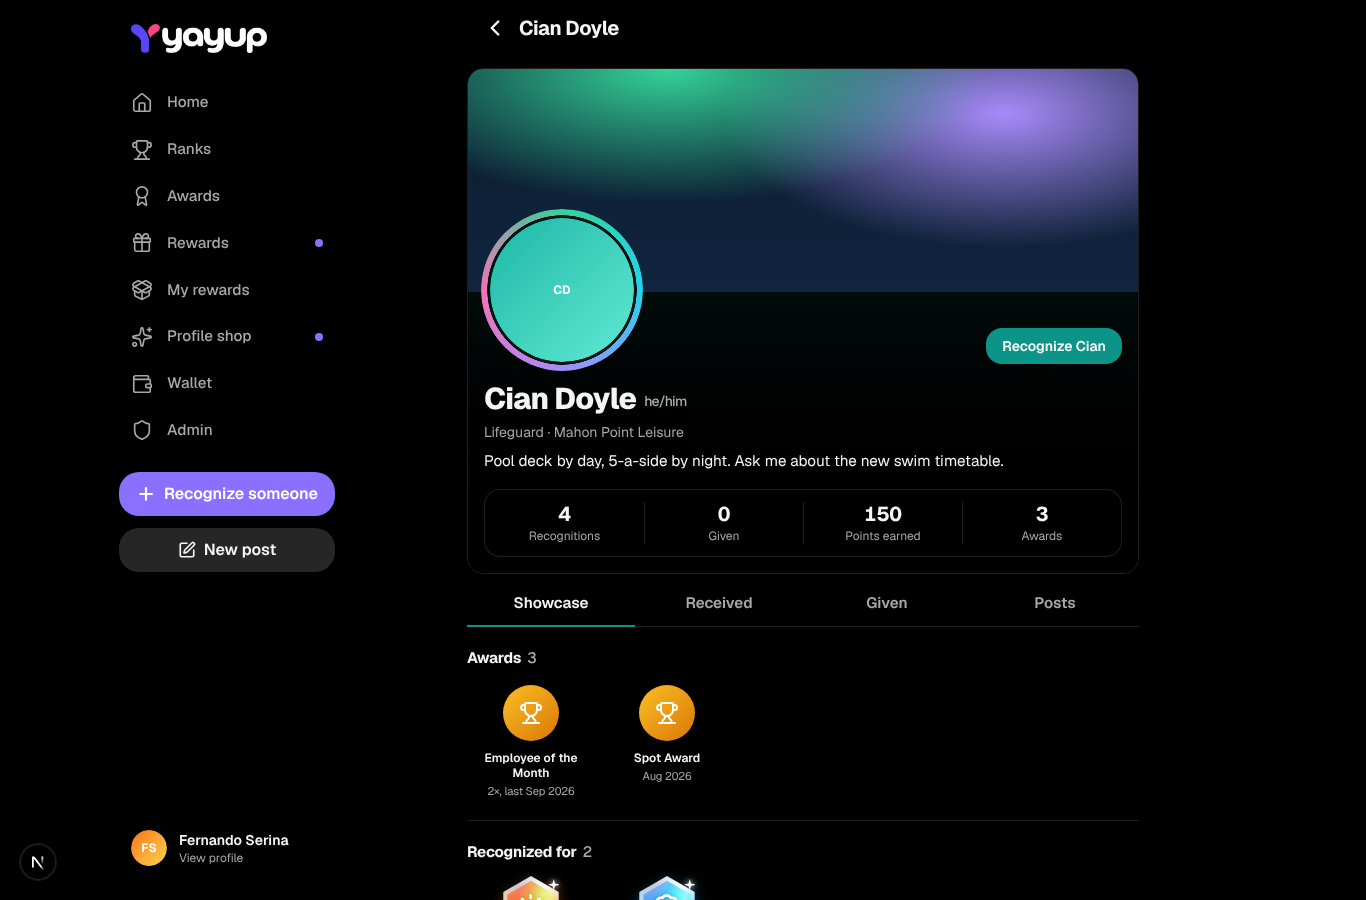
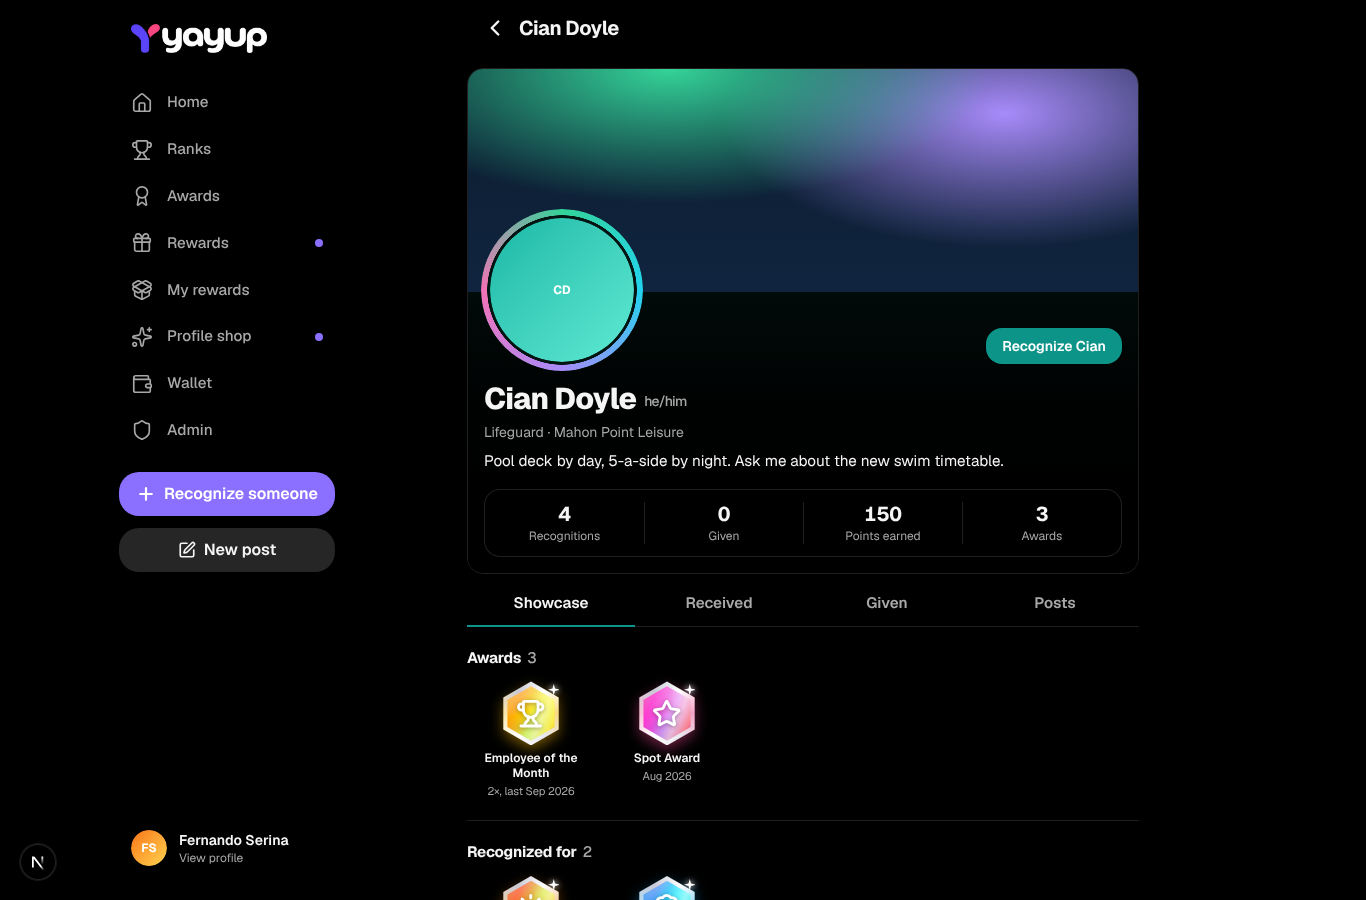
Show awards as #48's gold hexagons on the profile showcase
Group awards by program, draw them with AwardBadge, and drop the
profile Highlights and Stats the showcase replaced.

Claude-Session: https://claude.ai/code/session_015uHrJRgyyZCSvNwWYqk8Gw

Changed region(s): [[0.3382, 0.7467, 0.4305, 0.84], [0.4612, 0.7467, 0.5227, 0.84]]

diff --git a/components/profile/profile-parts.tsx b/components/profile/profile-parts.tsx
@@ -1,126 +1,5 @@
 import Link from "next/link";
-import { cn } from "@/lib/utils";
-import { AwardBadge, ValueSeal } from "@/components/value-seal";
-import { CELEBRATION_EMOJI, CELEBRATION_LABELS, type ProfileData } from "@/lib/profile";
-import { CountUp } from "@/components/fx/count-up";
-
-/** Instagram's three counts beside the avatar, easing up as the page opens. */
-export function Stats({ data }: { data: ProfileData }) {
-  const items = [
-    { label: "received", value: data.stats.receivedCount },
-    { label: "given", value: data.stats.givenCount },
-    { label: "points", value: data.stats.pointsEarned },
-  ];
-  return (
-    <dl className="grid flex-1 grid-cols-3 text-center">
-      {items.map((s) => (
-        <div key={s.label} className="flex flex-col-reverse">
-          <dt className="text-sm">{s.label}</dt>
-          <dd data-numeric className="text-lg leading-tight font-bold">
-            <CountUp value={s.value} />
-          </dd>
-        </div>
-      ))}
-    </dl>
-  );
-}
-
-type Highlight = {
-  key: string;
-  label: string;
-  circle: React.ReactNode;
-  background: string;
-  count?: number;
-  /** Badge brings its own shape (value hexagons): no circle around it. */
-  bare?: boolean;
-};
-
-/**
- * Badge shelves under the bio: the awards this person has won (gold holo
- * hexagons, one per award with how many times), then the values they've been
- * recognised for and their milestones.
- */
-export function Highlights({ data }: { data: ProfileData }) {
-  const awardMap = new Map<string, Highlight>();
-  for (const a of data.awards) {
-    const h = awardMap.get(a.programId);
-    if (h) h.count = (h.count ?? 1) + 1;
-    else
-      awardMap.set(a.programId, {
-        key: `award-${a.programId}`,
-        label: a.name,
-        circle: <AwardBadge award={a} size="md" />,
-        background: "transparent",
-        bare: true,
-        count: 1,
-      });
-  }
-  const awards = [...awardMap.values()];
-  const badges: Highlight[] = [
-    ...data.valueTags.map((t) => ({
-      key: `value-${t.value.id}`,
-      label: t.value.name,
-      circle: <ValueSeal value={t.value} size="md" ribbon={false} />,
-      background: "transparent",
-      bare: true,
-      count: t.count,
-    })),
-    ...data.celebrations.map((c) => ({
-      key: `celebration-${c.id}`,
-      label: CELEBRATION_LABELS[c.type] ?? c.type,
-      circle: <span className="text-2xl leading-none">{CELEBRATION_EMOJI[c.type] ?? "🎉"}</span>,
-      background: "var(--surface-2)",
-    })),
-  ];
-  if (awards.length === 0 && badges.length === 0) return null;
-
-  return (
-    <div className="space-y-3">
-      {awards.length > 0 && <HighlightRow title="Awards" items={awards} />}
-      {badges.length > 0 && <HighlightRow title="Recognised for" items={badges} />}
-    </div>
-  );
-}
-
-function HighlightRow({ title, items }: { title: string; items: Highlight[] }) {
-  return (
-    <section aria-label={title}>
-      <h2 className="text-muted mb-2 text-[0.7rem] font-semibold tracking-wider uppercase">{title}</h2>
-      <ul className="no-scrollbar -mx-4 flex gap-4 overflow-x-auto px-4">
-        {items.map((h) => (
-          <li key={h.key} className="flex w-16 shrink-0 flex-col items-center gap-1.5">
-            <span
-              className={cn(
-                "relative flex size-16 items-center justify-center rounded-full",
-                !h.bare && "border-border border p-[3px]",
-              )}
-            >
-              {h.bare ? (
-                h.circle
-              ) : (
-                <span
-                  className="flex size-full items-center justify-center rounded-full"
-                  style={{ background: h.background }}
-                >
-                  {h.circle}
-                </span>
-              )}
-              {h.count && h.count > 1 ? (
-                <span
-                  data-numeric
-                  className="bg-foreground text-background ring-background absolute -right-0.5 -bottom-0.5 min-w-5 rounded-full px-1 text-center text-[0.65rem] leading-5 font-bold ring-2"
-                >
-                  {h.count}
-                </span>
-              ) : null}
-            </span>
-            <span className="w-full truncate text-center text-xs">{h.label}</span>
-          </li>
-        ))}
-      </ul>
-    </section>
-  );
-}
+import type { ProfileData } from "@/lib/profile";
 
 /** "Managed by …" line under the bio. */
 export function Managers({ data }: { data: ProfileData }) {

diff --git a/components/profile/profile-showcase.tsx b/components/profile/profile-showcase.tsx
@@ -1,8 +1,8 @@
 import Link from "next/link";
 import { format } from "date-fns";
-import { ChevronRight, Trophy } from "lucide-react";
+import { ChevronRight } from "lucide-react";
 import { cn } from "@/lib/utils";
-import { ValueSeal } from "@/components/value-seal";
+import { AwardBadge, ValueSeal } from "@/components/value-seal";
 import { FramedAvatar } from "@/components/user-avatar";
 import { CountUp } from "@/components/fx/count-up";
 import { CELEBRATION_EMOJI, CELEBRATION_LABELS, type ProfileData } from "@/lib/profile";
@@ -98,28 +98,21 @@ function BadgeGrid({ items }: { items: Badge[] }) {
 
 const times = (n: number) => (n === 1 ? "Once" : `${formatNumber(n)} times`);
 
-/** Awards won, one badge per award with how many times and when last. */
+/** Awards won: one gold hexagon per award, with how many times and when last. */
 export function AwardShelf({ data }: { data: ProfileData }) {
-  const byName = new Map<string, { name: string; count: number; last: Date }>();
+  const byProgram = new Map<string, { award: ProfileData["awards"][number]; count: number; last: Date }>();
   for (const a of data.awards) {
     const won = new Date(a.wonAt);
-    const g = byName.get(a.name);
+    const g = byProgram.get(a.programId);
     if (g) {
       g.count += 1;
       if (won > g.last) g.last = won;
-    } else byName.set(a.name, { name: a.name, count: 1, last: won });
+    } else byProgram.set(a.programId, { award: a, count: 1, last: won });
   }
-  const items: Badge[] = [...byName.values()].map((g) => ({
-    key: g.name,
-    label: g.name,
-    art: (
-      <span
-        className="flex size-14 items-center justify-center rounded-full shadow-sm"
-        style={{ background: "linear-gradient(135deg, #fbbf24, #d97706)" }}
-      >
-        <Trophy className="size-6 text-white" />
-      </span>
-    ),
+  const items: Badge[] = [...byProgram.values()].map((g) => ({
+    key: g.award.programId,
+    label: g.award.name,
+    art: <AwardBadge award={g.award} size="md" />,
     note: g.count > 1 ? `${g.count}×, last ${format(g.last, "MMM yyyy")}` : format(g.last, "MMM yyyy"),
   }));
   return <BadgeGrid items={items} />;
